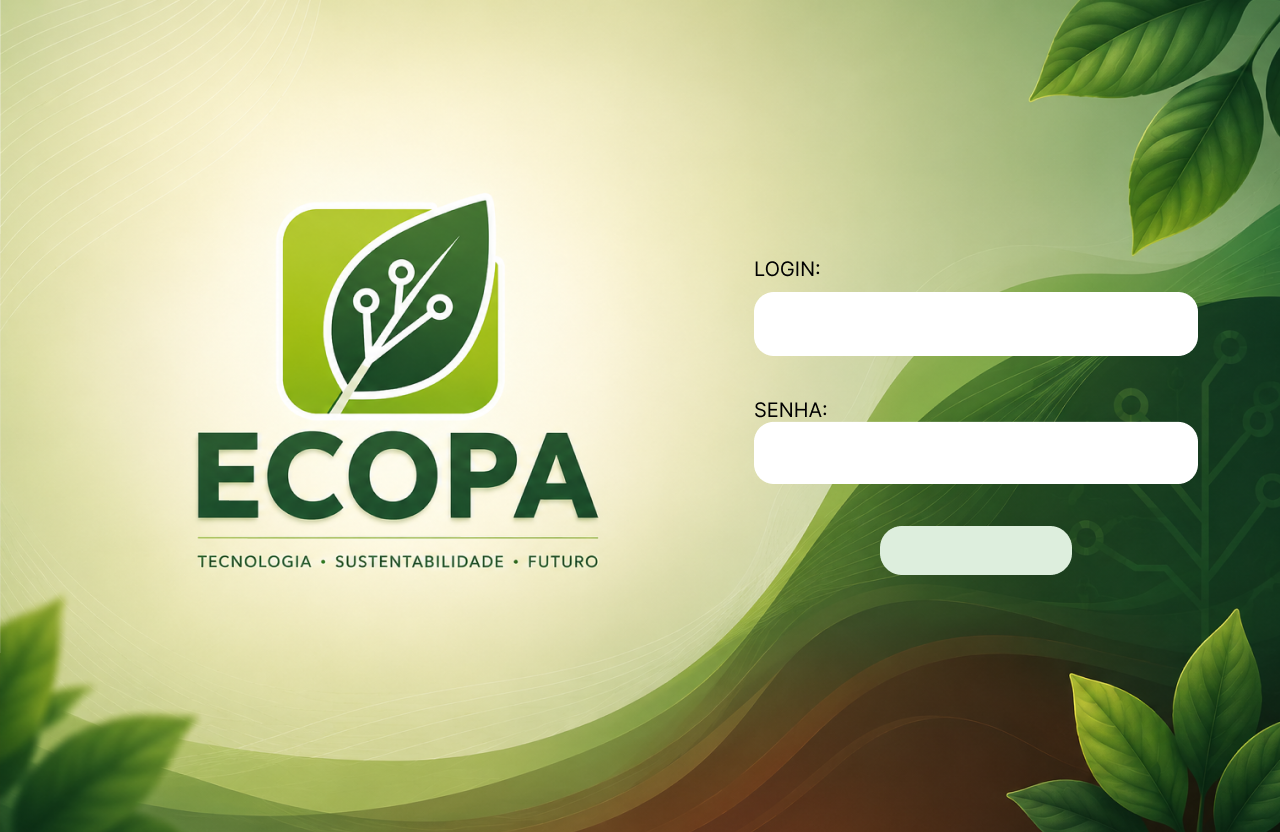
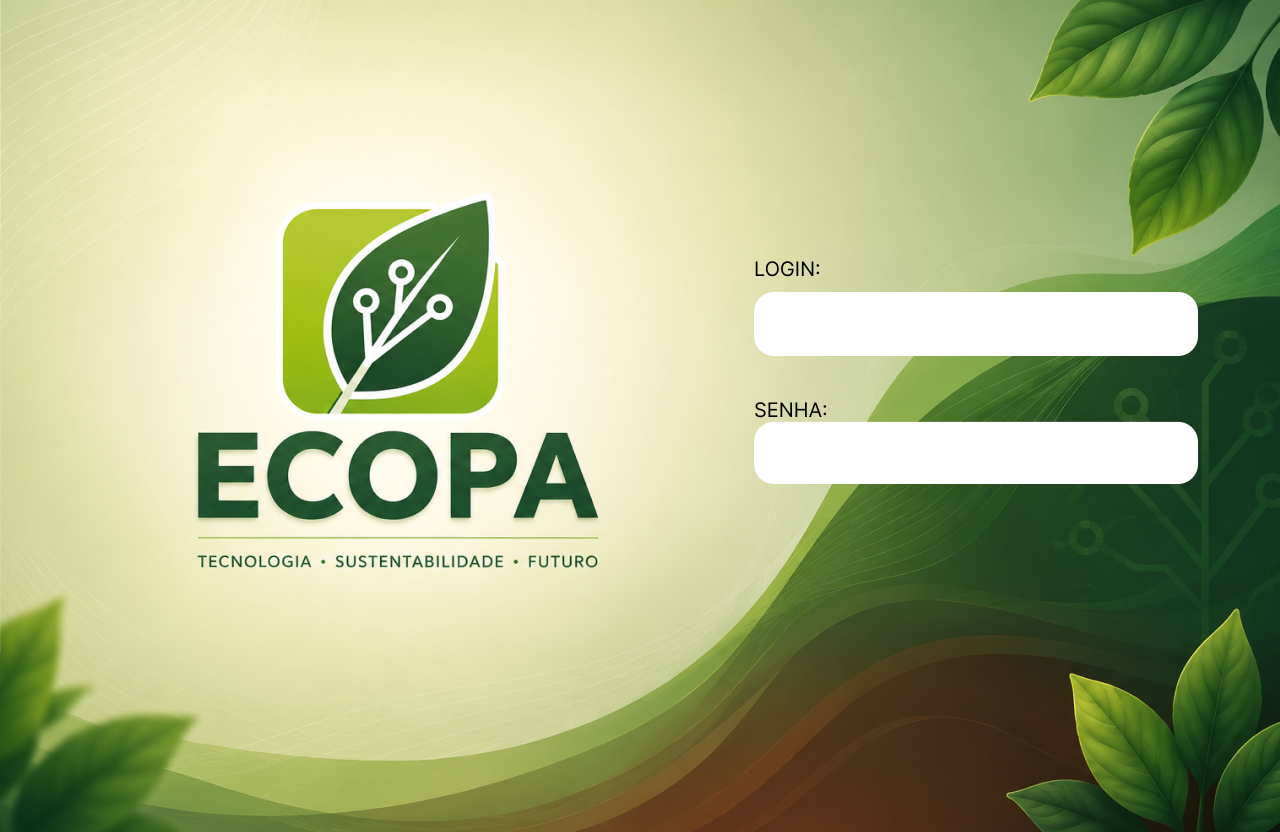
adiciona icones à sidebar

Changed region(s): [[0.6875, 0.625, 0.8438, 0.7188]]

diff --git a/views/dashboard.py b/views/dashboard.py
@@ -1,4 +1,6 @@
 import customtkinter as ctk
+from PIL import Image
+import os
 from views.cadastros_hub import CadastrosHub
 from views.coletas import ColetasView
 from views.pontos import PontosView
@@ -13,13 +15,24 @@ from matplotlib.backends.backend_tkagg import FigureCanvasTkAgg
 
 plt.rcParams["font.family"] = "sans-serif"
 
+ICONS_DIR = os.path.join(os.path.dirname(os.path.dirname(os.path.abspath(__file__))), "assets", "icons")
+
+
+def carregar_icone(nome, tamanho=20):
+    """Carrega icone de assets/icons/{nome}.png. Retorna None se nao existir."""
+    caminho = os.path.join(ICONS_DIR, f"{nome}.png")
+    if os.path.exists(caminho):
+        img = Image.open(caminho).resize((tamanho, tamanho), Image.LANCZOS)
+        return ctk.CTkImage(light_image=img, dark_image=img, size=(tamanho, tamanho))
+    return None
+
 
 class MainView(ctk.CTkFrame):
     def __init__(self, master, nome_usuario=""):
         super().__init__(master)
         self.nome_usuario = nome_usuario
 
-        self.sidebar = ctk.CTkFrame(self, width=220, corner_radius=0, fg_color="#006d12")
+        self.sidebar = ctk.CTkFrame(self, width=280, corner_radius=0, fg_color="#006d12")
         self.sidebar.pack(side="left", fill="y")
         self.sidebar.pack_propagate(False)
 
@@ -30,25 +43,34 @@ class MainView(ctk.CTkFrame):
         ).pack(pady=(30, 40))
 
         botoes = [
-            ("Dashboard",    self.abrir_dashboard),
-            ("Gerente",      self.abrir_gerente),
-            ("Coletas",      self.abrir_coleta),
-            ("Pontos",       self.abrir_pontos),
-            ("Destinações",  self.abrir_destinacoes),
-            ("Cadastros",    self.abrir_cadastros),
-            ("Relatórios",   self.abrir_relatorios),
+            ("dashboard",    "Dashboard",    self.abrir_dashboard),
+            ("gerente",      "Gerente",      self.abrir_gerente),
+            ("coletas",      "Coletas",      self.abrir_coleta),
+            ("pontos",       "Pontos",       self.abrir_pontos),
+            ("destinacoes",  "Destinações",  self.abrir_destinacoes),
+            ("cadastros",    "Cadastros",    self.abrir_cadastros),
+            ("relatorios",   "Relatórios",   self.abrir_relatorios),
         ]
 
-        for texto, comando in botoes:
-            ctk.CTkButton(
+        for nome_icone, texto, comando in botoes:
+            icone = carregar_icone(nome_icone)
+            btn = ctk.CTkButton(
                 self.sidebar, text=texto,
+                image=icone, compound="left",
                 fg_color="transparent", hover_color="#0a8f2c",
-                anchor="w", command=comando
-            ).pack(fill="x", padx=15, pady=4)
+                anchor="w", height=40,
+                font=ctk.CTkFont(size=15),
+                command=comando
+            )
+            btn.pack(fill="x", padx=15, pady=4)
 
+        icone_sair = carregar_icone("sair")
         ctk.CTkButton(
-            self.sidebar, text="Sair", fg_color="#c0392b",
-            hover_color="#e74c3c", command=self.sair
+            self.sidebar, text="Sair",
+            image=icone_sair, compound="left",
+            fg_color="#c0392b", hover_color="#e74c3c",
+            height=40, font=ctk.CTkFont(size=15),
+            command=self.sair
         ).pack(side="bottom", pady=20, padx=15, fill="x")
 
         self.content = ctk.CTkFrame(self, corner_radius=0, fg_color="#dcebdc")